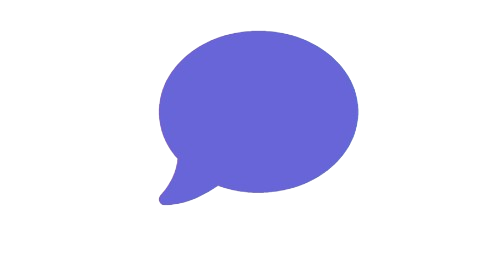
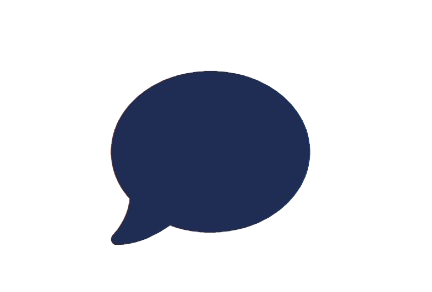
ui changes

Changed region(s): [[0.2407, 0.0913, 0.7523, 0.8517]]

diff --git a/frontend/src/components/updates/Update.js b/frontend/src/components/updates/Update.js
@@ -1,6 +1,8 @@
-import React, { useState } from "react";
+import React, { useState } from "react";
 import "./Update.css";
 import Card from "./Card";
+import like from "../../assets/like.png";
+import comment from "../../assets/comment.png";
 
 const Update = () => {
     // State for storing input values
@@ -65,12 +67,62 @@ const Update = () => {
             <div>
           
                 <ul style={{ listStyleType: 'none', padding: 0 }}>
+                    <div className="card">
+                        <div className="profile">
+                            <img src="https://picsum.photos/200" alt="Profile" className="profile-photo" />
+                            <p className="name">Milan MY</p>
+                            <p className="username">@milan_my</p>
+                            <p className="pipe">|</p>
+                            <p className="time">3h</p>
+                        </div>
+
+                        <div className="message">We're pleased to announce that our employee engagement survey results are in.
+                            Overall satisfaction levels have increased by 10% compared to last year! Reminder: Quarterly performance reviews are scheduled for next week. Please ensure all feedback is submitted by EOD tomorrow. </div>
+                        <div className="actions">
+                            <button className="like-button"> <img className="like" src={like}></img>   (10)</button>
+                            <button className="comment-button">  <img className="comment" src={comment}></img>  (5)</button>
+                        </div>
+                    </div>
+
+                    <div className="card">
+                        <div className="profile">
+                            <img src="https://picsum.photos/200" alt="Profile" className="profile-photo" />
+                            <p className="name">Gyan Ranjan</p>
+                            <p className="username">@gyan_00</p>
+                            <p className="pipe">|</p>
+                            <p className="time">1h</p>
+                        </div>
+
+                        <div className="message">Team A successfully completed the project ahead of schedule. Kudos to the team for their hard work and dedication!
+                           Team B has finalized their proposal for the upcoming client presentation. Excited to see their hard work pay off! 👍</div>
+                        <div className="actions">
+                            <button className="like-button"> <img className="like" src={like}></img>   (20)</button>
+                            <button className="comment-button">  <img className="comment" src={comment}></img>  (5)</button>
+                        </div>
+                    </div>
+
+                    <div className="card">
+                        <div className="profile">
+                            <img src="https://picsum.photos/200" alt="Profile" className="profile-photo" />
+                            <p className="name">Yash Shah</p>
+                            <p className="username">@yash_22</p>
+                            <p className="pipe">|</p>
+                            <p className="time">30m</p>
+                        </div>
+
+                        <div className="message">The finance team has finalized the budget for Q3. Please review and provide any necessary adjustments by the end of the week. 😊
+                          We're looking to fill a new position in the marketing department. If you know anyone who might be a good fit, please refer them to HR. </div>
+                        <div className="actions">
+                            <button className="like-button"> <img className="like" src={like}></img>   (10)</button>
+                            <button className="comment-button">  <img className="comment" src={comment}></img>  (3)</button>
+                        </div>
+                    </div>
                     {updates.map((update) => (
 
 
                       
 
-                        <Card profilePhoto="https://picsum.photos/200" author="Manager 1" username="palak25" time="2h" message={update.description} likes="20" comments="10" />
+                        <Card profilePhoto="https://picsum.photos/200" author="Apoorv Prakash Gupta" username="apoorv" time="10m" message={update.description} likes="20" comments="10" />
                     ))}
                 </ul>
             </div>

diff --git a/frontend/src/components/updates/Update.css b/frontend/src/components/updates/Update.css
@@ -1,7 +1,6 @@
 .container {
-    background-color: #fff;
+    background-color: #f9f9f9;
     padding: 10px;
-
     border-radius: 5px;
     max-width: 80%;
     margin: 5px auto;
@@ -21,12 +20,12 @@
     width: 100%;
     padding: 10px;
     border-radius: 5px;
-    border: 2px solid #596bd1;
+    border: 2px solid #1d2653;
     margin-bottom: 15px;
 }
 
 .button {
-    background-color: #596bd1;
+    background-color: #1f2c53;
     color: #fff;
     padding: 10px 20px;
     border-radius: 5px;
@@ -34,9 +33,7 @@
     cursor: pointer;
 }
 
-    .button:hover {
-        background-color: #0056b3;
-    }
+  
 
 .updates-container {
     background-color: #fff;

diff --git a/frontend/src/components/updates/Card.css b/frontend/src/components/updates/Card.css
@@ -1,6 +1,6 @@
 .card {
     background-color: #fff;
-    box-shadow: 0px 5px 5px -5px #596bd1;
+    box-shadow: 0px 5px 5px -5px #1f2c53;
     padding: 16px;
     margin-bottom: 20px;
 }
@@ -25,18 +25,18 @@
 
 .username {
     font-size: smaller;
-    color: #596bd1;
+    color: #1f2c53;
     margin: 10px;
 }
 
 .time {
     font-size: smaller;
-    color: #596bd1;
+    color: #1f2c53;
     margin: 10px;
 }
 .pipe {
     font-size: smaller;
-    color: #596bd1;
+    color: #1f2c53;
     margin: 10px;
 }
 
